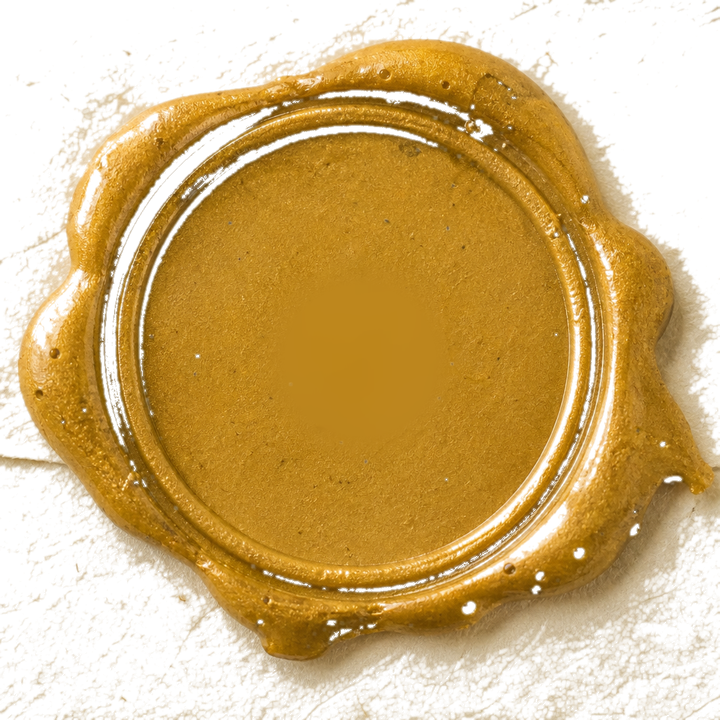
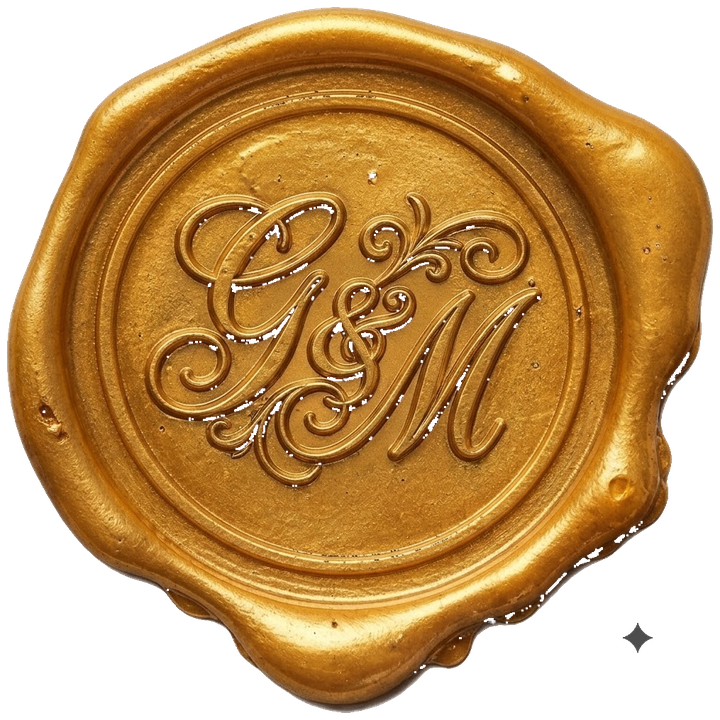
Usa il sigillo di cera lacca fornito come riferimento.

diff --git a/styles.css b/styles.css
@@ -669,13 +669,13 @@ body.anim-3d-cinema .envelope-gate__florals--br {
   }
 }
 
-/* Cera lacca dorata + monogramma Italianno impresso */
+/* Sigillo cera lacca (asset fotorealistico) */
 body.anim-3d-cinema .envelope-gate__seal {
   position: absolute;
   left: 50%;
   top: 48%;
-  width: clamp(112px, 26vw, 164px);
-  height: clamp(112px, 26vw, 164px);
+  width: clamp(118px, 28vw, 172px);
+  height: clamp(118px, 28vw, 172px);
   transform: translate(-50%, -50%);
   z-index: 14;
   pointer-events: none;
@@ -691,30 +691,9 @@ body.anim-3d-cinema .envelope-gate__seal-wax {
   height: 100%;
   object-fit: contain;
   display: block;
-  filter: drop-shadow(0 6px 10px rgba(58, 52, 44, 0.32));
+  filter: drop-shadow(0 7px 14px rgba(58, 52, 44, 0.34));
   user-select: none;
   -webkit-user-drag: none;
-  pointer-events: none;
-}
-
-body.anim-3d-cinema .envelope-gate__seal-monogram {
-  position: absolute;
-  left: 50%;
-  top: 50%;
-  z-index: 1;
-  transform: translate(-50%, -54%);
-  font-family: var(--font-display);
-  font-size: clamp(1.9rem, 6.4vw, 2.85rem);
-  font-weight: 400;
-  line-height: 1;
-  letter-spacing: 0.03em;
-  color: #4a3510;
-  mix-blend-mode: multiply;
-  opacity: 0.78;
-  text-shadow:
-    0 1px 0 rgba(255, 230, 170, 0.28),
-    0 -1px 1px rgba(30, 18, 4, 0.4);
-  user-select: none;
   pointer-events: none;
 }
 

diff --git a/index.html b/index.html
@@ -31,7 +31,7 @@
   <noscript>
     <link href="https://fonts.googleapis.com/css2?family=Cormorant+Garamond:ital,wght@0,400;0,500;0,600;1,400;1,500&family=Italianno&family=Outfit:wght@300;400;500&display=swap" rel="stylesheet" />
   </noscript>
-  <link rel="stylesheet" href="styles.css?v=55" />
+  <link rel="stylesheet" href="styles.css?v=56" />
 </head>
 <body>
   <!-- Envelope overlay -->
@@ -108,14 +108,13 @@
           <span class="envelope-gate__seal" aria-hidden="true">
             <img
               class="envelope-gate__seal-wax"
-              src="images/wax-seal-blank.webp?v=55"
+              src="images/wax-seal-gold.webp?v=56"
               alt=""
-              width="512"
-              height="512"
+              width="720"
+              height="720"
               draggable="false"
               decoding="async"
             />
-            <span class="envelope-gate__seal-monogram">G&amp;M</span>
           </span>
         </span>
       </span>
@@ -362,6 +361,6 @@
     <span class="music-toggle__label" id="musicToggleLabel">In pausa</span>
   </button>
 
-  <script src="script.js?v=55"></script>
+  <script src="script.js?v=56"></script>
 </body>
 </html>
